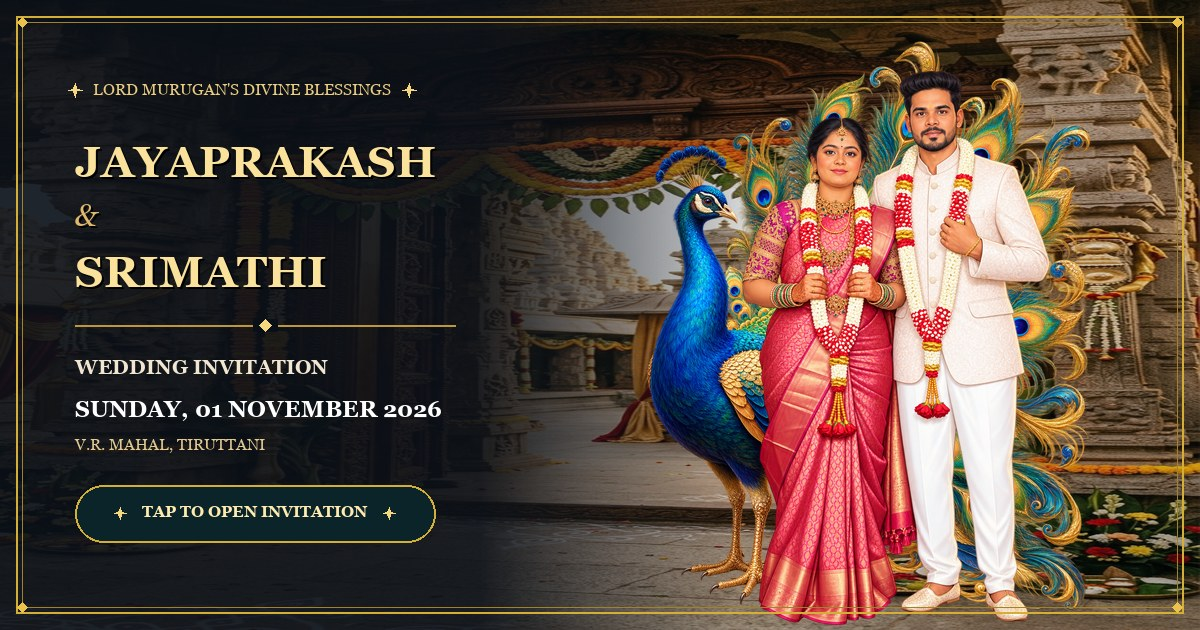
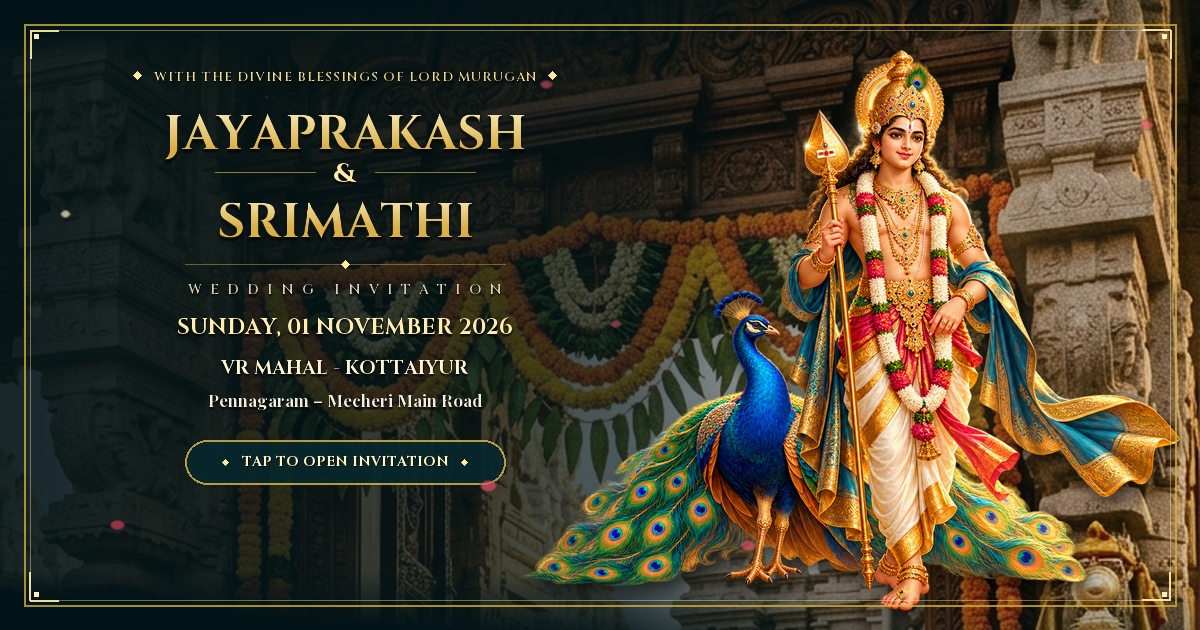
feat: replace link preview image with divine Lord Murugan card without couple photo

diff --git a/index.html b/index.html
@@ -11,8 +11,8 @@
     <meta property="og:site_name" content="Jayaprakash & Srimathi Wedding" />
     <meta property="og:title" content="Jayaprakash & Srimathi | Sacred Wedding Invitation" />
     <meta property="og:description" content="With the divine blessings of Lord Murugan — Jayaprakash & Srimathi Wedding Invitation on 01 November 2026. Tap to open the invitation 🌸" />
-    <meta property="og:image" content="https://jayaprakash-srimathi-wedding.vercel.app/assets/og-preview.jpg" />
-    <meta property="og:image:secure_url" content="https://jayaprakash-srimathi-wedding.vercel.app/assets/og-preview.jpg" />
+    <meta property="og:image" content="https://jayaprakash-srimathi-wedding.vercel.app/assets/og-preview.jpg?v=3" />
+    <meta property="og:image:secure_url" content="https://jayaprakash-srimathi-wedding.vercel.app/assets/og-preview.jpg?v=3" />
     <meta property="og:image:type" content="image/jpeg" />
     <meta property="og:image:width" content="1200" />
     <meta property="og:image:height" content="630" />
@@ -22,7 +22,7 @@
     <meta name="twitter:card" content="summary_large_image" />
     <meta name="twitter:title" content="Jayaprakash & Srimathi | Sacred Wedding Invitation" />
     <meta name="twitter:description" content="With the divine blessings of Lord Murugan — Jayaprakash & Srimathi Wedding Invitation on 01 November 2026. Tap to open the invitation 🌸" />
-    <meta name="twitter:image" content="https://jayaprakash-srimathi-wedding.vercel.app/assets/og-preview.jpg" />
+    <meta name="twitter:image" content="https://jayaprakash-srimathi-wedding.vercel.app/assets/og-preview.jpg?v=3" />
 
     <!-- Google Fonts for Luxury South Indian Aesthetic -->
     <link rel="preconnect" href="https://fonts.googleapis.com">
